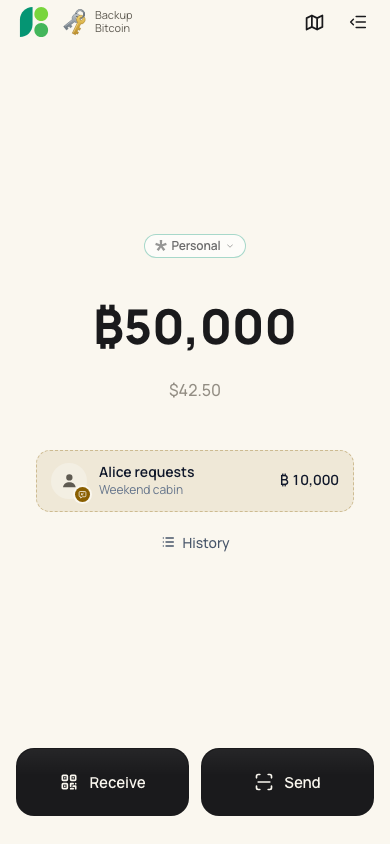
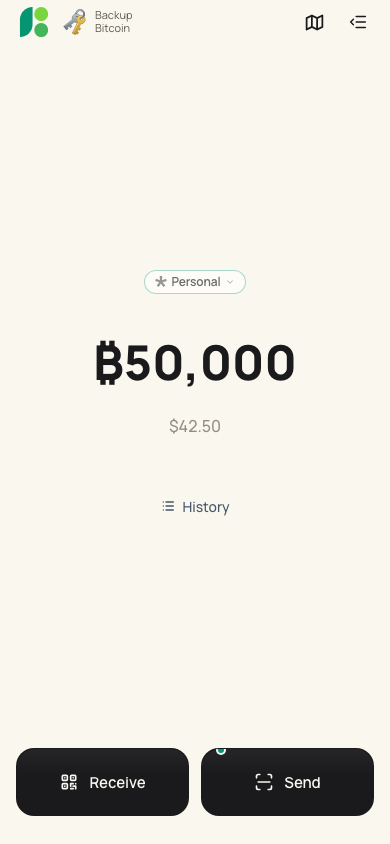
feat(requests): a quiet dot on Send instead of the Home card
The open-request card competed with the balance and the last payment.
Requests that wait are now announced the way BuhoGO announces updates:
a dot, no number, on Send (Receive already shows one for saved
vouchers), and Send lists the request first, in the style of its other
rows. One request opens its chat, several open Requests. The dot goes as
soon as nothing waits; Send's accessible name says a request is waiting.

diff --git a/src/pages/Wallet.vue b/src/pages/Wallet.vue
@@ -303,42 +303,6 @@
         more informative entry point than the old round icon button.
       -->
       <div class="last-tx-section">
-        <!-- Money a contact asked for: one card, same anatomy as the last
-             transaction, until it is paid, declined or expired. One request
-             opens its chat (where Pay is); several open the Requests page. -->
-        <button
-          v-if="toPayCard"
-          type="button"
-          class="last-tx-card to-pay-card"
-          :class="$q.dark.isActive ? 'last-tx-card-dark' : 'last-tx-card-light'"
-          :aria-label="`${toPayCard.title}. ${toPayCard.subtitle}`"
-          @click="openRequestsToPay"
-        >
-          <span class="last-tx-avatar-wrap">
-            <ContactAvatar
-              class="last-tx-avatar"
-              :entry="toPayCard.contact || {}"
-              :name="toPayCard.contact?.name || ''"
-            />
-            <span class="last-tx-type-badge tx-badge-request">
-              <Icon icon="buho:request" width="9" height="9" />
-            </span>
-          </span>
-          <span class="last-tx-info">
-            <span class="last-tx-title" :class="$q.dark.isActive ? 'last-tx-title-dark' : 'last-tx-title-light'">
-              {{ toPayCard.title }}
-            </span>
-            <span class="last-tx-time" :class="$q.dark.isActive ? 'last-tx-muted-dark' : 'last-tx-muted-light'">
-              {{ toPayCard.subtitle }}
-            </span>
-          </span>
-          <span class="last-tx-amount-wrap">
-            <span class="last-tx-amount" :class="$q.dark.isActive ? 'last-tx-title-dark' : 'last-tx-title-light'">
-              <HiddenAmount>{{ toPayCard.amount }}</HiddenAmount>
-            </span>
-          </span>
-        </button>
-
         <!-- Loading: skeleton -->
         <div
           v-if="isLoadingLastTransaction"
@@ -463,9 +427,12 @@
           @click="openSend"
           no-caps
           unelevated
-          :aria-label="$t('Send payment')"
+          :aria-label="requestsToPay.length ? $t('Send payment, a request is waiting') : $t('Send payment')"
         >
           <Icon icon="tabler:scan" width="20" height="20" />
+          <!-- Someone asked for money: a dot, no number, like the update dot
+               on the logo. Send lists the request at the top. -->
+          <span v-if="requestsToPay.length" class="action-dot" aria-hidden="true"></span>
           <span class="btn-text">{{ $t('Send') }}</span>
         </q-btn>
       </div>
@@ -851,9 +818,6 @@ import WalletSwitcherSheet from '../components/wallets/WalletSwitcherSheet.vue';
 import PaymentConfirmSheet from '../components/PaymentConfirmSheet.vue';
 import ContactAvatar from '../components/AddressBook/ContactAvatar.vue';
 import {useRequestsToPay} from '../composables/useRequests.js';
-import {contactChatRoute} from '../services/dm/routes.js';
-// The waiting-request colours, shared with the chat's request card.
-import '../components/chat/chatTokens.css';
 import BatchSendModal from '../components/BatchSendModal.vue';
 import BackupBanner from '../components/BackupBanner.vue';
 import BackupShortcut from '../components/BackupShortcut.vue';
@@ -1112,36 +1076,6 @@ export default {
       const ms = sparkHealth().unreachableFor(this.walletStore.activeWalletId);
       return ms ? exitDurationText(ms, (key, params) => this.$t(key, params)) : '';
     },
-    /** The home card for requests waiting for the user, or null when none wait. */
-    toPayCard() {
-      const requests = this.requestsToPay;
-      if (!requests.length) return null;
-      const contactOf = (pubkey) => this.addressBookStore.findContactByPubkey(pubkey);
-      const firstName = (pubkey) => String(contactOf(pubkey)?.name || '').trim().split(/\s+/)[0];
-      const amount = formatAmount(
-        requests.reduce((sum, request) => sum + request.request.amountSats, 0),
-        this.walletStore.useBip177Format,
-      );
-      const [first] = requests;
-      if (requests.length === 1) {
-        return {
-          contact: contactOf(first.partner),
-          title: this.$t('{name} requests', { name: firstName(first.partner) }),
-          subtitle: first.request.note || this.$t('Payment request'),
-          amount,
-        };
-      }
-      const names = [...new Set(requests.map((request) => firstName(request.partner)))];
-      return {
-        contact: contactOf(first.partner),
-        title: this.$t('{n} requests to pay', { n: requests.length }),
-        subtitle: names.length > 2
-          ? this.$t('{names} and {n} more', { names: names.slice(0, 2).join(', '), n: names.length - 2 })
-          : names.join(', '),
-        amount,
-      };
-    },
-
     menuButtonLabel() {
       if (!this.socialBucketStore.hasUnseenPayments) return this.$t('Menu');
       const count = this.socialBucketStore.paymentCount;
@@ -2426,11 +2360,6 @@ export default {
     }
   },
   methods: {
-    openRequestsToPay() {
-      const contact = this.toPayCard?.contact;
-      this.$router.push(this.requestsToPay.length === 1 && contact ? contactChatRoute(contact.id) : '/requests');
-    },
-
     openEmergencyExit() {
       this.$router.push(`/security/exit/${this.walletStore.activeWalletId}`);
     },
@@ -6853,11 +6782,6 @@ export default {
   border-color: var(--border-card);
 }
 
-/* A request waiting for the user: the chat's open-request colours. */
-.to-pay-card {
-  background: var(--color-warn-soft);
-  border: 1.5px dashed var(--chat-warn-line);
-}
 
 .last-tx-icon {
   flex: 0 0 auto;
@@ -6916,7 +6840,6 @@ export default {
 .tx-badge-pos { background: #3B82F6; }
 .tx-badge-aux { background: #64748B; }
 .tx-badge-zap { background: #662482; }
-.tx-badge-request { background: var(--color-warn); color: var(--bg-card); }
 
 /* Nostr ostrich head, sized up for the same reason as in the history
    list: it is filled art, not a stroked glyph. This disc is the

diff --git a/src/components/SendModal.vue b/src/components/SendModal.vue
@@ -190,6 +190,23 @@
 
       <!-- ─────────────  METHOD ROWS  ───────────── -->
       <div v-if="showMethods" class="method-block">
+        <!-- A contact asked for money: the first row, marked by a dot like
+             the update row. One request opens its chat (Pay is there);
+             several open Requests. Hidden once nothing waits. -->
+        <template v-if="waitingRequests">
+          <button type="button" class="method-row" data-audit="send-requests" @click="openWaitingRequests">
+            <span class="method-icon method-icon--request">
+              <Icon icon="buho:request" width="20" height="20" />
+              <span class="method-dot" aria-hidden="true"></span>
+            </span>
+            <span class="method-text">
+              <span class="method-title">{{ waitingRequests.title }}</span>
+              <span class="method-sub">{{ waitingRequests.subtitle }}</span>
+            </span>
+            <Icon icon="tabler:chevron-right" width="16" height="16" class="method-chev" />
+          </button>
+          <div class="method-divider"></div>
+        </template>
         <button type="button" class="method-row" data-audit="send-mobile-money" @click="enterMobileMoney">
           <span class="method-icon">
             <Icon icon="tabler:device-mobile" width="20" height="20" />
@@ -391,6 +408,9 @@ import {
 import { resolveNostrLightningTarget, NOSTR_TARGET_ERROR } from '../services/nostrPaymentTarget';
 import { usernameAddressFromInput } from '../services/nip05';
 import ContactAvatar from './AddressBook/ContactAvatar.vue';
+import { useRequestsToPay } from '../composables/useRequests.js';
+import { contactChatRoute } from '../services/dm/routes.js';
+import { formatAmount } from '../utils/amountFormatting.js';
 import ArkadeLogo from './ArkadeLogo.vue';
 import ProgressCta from './ProgressCta.vue';
 
@@ -421,7 +441,7 @@ export default {
   setup() {
     const addressBookStore = useAddressBookStore();
     const walletStore = useWalletStore();
-    return { addressBookStore, walletStore };
+    return { addressBookStore, walletStore, requestsToPay: useRequestsToPay() };
   },
   data() {
     return {
@@ -654,6 +674,32 @@ export default {
     // any typing hands their space to the contact filter or the preview card.
     showMethods() {
       return !this.mobileMoneyMode && !(this.manualInput || '').trim();
+    },
+
+    /**
+     * The row for requests that wait for the user, or null. One request:
+     * "Lena requests" and its amount and note. Several: how many, and who.
+     * Amounts stay out while the balance is hidden.
+     */
+    waitingRequests() {
+      const requests = this.requestsToPay;
+      if (!requests.length) return null;
+      const firstName = (pubkey) => String(this.addressBookStore.findContactByPubkey(pubkey)?.name || '').trim().split(/\s+/)[0];
+      const amountOf = (sats) => (this.walletStore.balanceHidden ? '' : formatAmount(sats, this.walletStore.useBip177Format));
+      if (requests.length === 1) {
+        const [{ partner, request }] = requests;
+        return {
+          title: this.$t('{name} requests', { name: firstName(partner) }),
+          subtitle: [amountOf(request.amountSats), request.note || this.$t('Payment request')].filter(Boolean).join(' · '),
+        };
+      }
+      const names = [...new Set(requests.map((message) => firstName(message.partner)))];
+      return {
+        title: this.$t('{n} requests to pay', { n: requests.length }),
+        subtitle: names.length > 2
+          ? this.$t('{names} and {n} more', { names: names.slice(0, 2).join(', '), n: names.length - 2 })
+          : names.join(', '),
+      };
     },
 
     showContactsSection() {
@@ -1145,6 +1191,13 @@ export default {
     goToAddressBook() {
       this.show = false;
       this.$router.push('/address-book');
+    },
+
+    openWaitingRequests() {
+      const [first, ...rest] = this.requestsToPay;
+      const contact = first && this.addressBookStore.findContactByPubkey(first.partner);
+      this.show = false;
+      this.$router.push(contact && !rest.length ? contactChatRoute(contact.id) : '/requests');
     },
 
     onContactPicked(contact) {
@@ -1865,6 +1918,24 @@ export default {
   gap: 1px;
   min-width: 0;
   flex: 1;
+}
+
+.method-icon--request {
+  position: relative;
+  color: var(--brand-accent-text);
+}
+
+/* The update dot's anatomy: brand colour, a ring in the surface colour. */
+.method-dot {
+  position: absolute;
+  top: -3px;
+  right: -3px;
+  width: 11px;
+  height: 11px;
+  border: 2px solid var(--bg-card);
+  border-radius: 50%;
+  background: var(--brand-accent);
+  box-sizing: border-box;
 }
 
 .method-title {

diff --git a/src/i18n/de/requests.js b/src/i18n/de/requests.js
@@ -52,6 +52,7 @@ export default {
   'To pay': 'Zu bezahlen',
   'Your requests': 'Deine Anfragen',
   '{n} requests to pay': '{n} offene Anfragen an dich',
+  'Send payment, a request is waiting': 'Zahlung senden, eine Anfrage wartet',
   'No requests yet': 'Noch keine Anfragen',
   'Ask one person or a few. See their payments here.':
     'Frage eine oder mehrere Personen. Ihre Zahlungen siehst du hier.',

diff --git a/src/i18n/es/requests.js b/src/i18n/es/requests.js
@@ -54,6 +54,7 @@ export default {
   'To pay': 'Por pagar',
   'Your requests': 'Tus solicitudes',
   '{n} requests to pay': '{n} solicitudes por pagar',
+  'Send payment, a request is waiting': 'Enviar pago, hay una solicitud pendiente',
   'No requests yet': 'Todavía no hay solicitudes',
   'Ask one person or a few. See their payments here.':
     'Pide a una o varias personas. Ve sus pagos aquí.',

diff --git a/src/i18n/en-US/requests.js b/src/i18n/en-US/requests.js
@@ -53,6 +53,7 @@ export default {
   'To pay': 'To pay',
   'Your requests': 'Your requests',
   '{n} requests to pay': '{n} requests to pay',
+  'Send payment, a request is waiting': 'Send payment, a request is waiting',
   'No requests yet': 'No requests yet',
   'Ask one person or a few. See their payments here.':
     'Ask one person or a few. See their payments here.',

diff --git a/docs/SHARED_REQUESTS.md b/docs/SHARED_REQUESTS.md
@@ -45,15 +45,16 @@ A request waits for the user while a saved contact's request is not paid,
 declined, cancelled or expired (`requestsToPay`). Strangers and blocked
 senders never count; their requests stay in Messages, as their messages do.
 Following Apple's guidance on [badges](https://developer.apple.com/design/human-interface-guidelines/notifications#Badges)
-and [lists](https://developer.apple.com/design/human-interface-guidelines/lists-and-tables),
-the signal only appears while there is something to act on and leads
-straight to it:
+("discoverable but not distracting or invasive") and the way BuhoGO
+announces updates, the signal is quiet, only appears while there is
+something to act on, and leads straight to it:
 
-- Home: one card above the last transaction, in the chat's open-request
-  colours. One request reads "Anna requests" and opens that chat, where Pay
-  is; several read "3 requests to pay" and open the Requests page. Muted
-  chats stay quiet, amounts follow Hide balance, and the card disappears as
-  soon as nothing waits.
+- Home: a dot on Send, as quiet as the update dot on the logo (a status,
+  not a count; Send's accessible name says a request is waiting). Send
+  lists the request first: "Anna requests" with the amount and the note.
+  One request opens its chat, where Pay is; several ("3 requests to pay")
+  open the Requests page. Muted chats stay quiet, amounts follow Hide
+  balance, and the dot goes as soon as nothing waits.
 - Receive → Requests: "To pay" first, then everything the user asked for:
   goals and requests sent from inside a chat. One person opens the chat,
   several open their progress.
@@ -136,9 +137,13 @@ Screenshots from the native browser review (test identities and amounts):
 | --- | --- |
 | ![Verified progress](images/shared-requests/progress.png) | ![Repayment](images/shared-requests/repayment.png) |
 
-| One person | A request waits on the home |
+| One person | A request waits: a dot on Send |
 | --- | --- |
 | ![One person](images/shared-requests/one-person.png) | ![A request waits](images/shared-requests/home-request.png) |
+
+| Send lists it first |
+| --- |
+| ![Send lists the request](images/shared-requests/send-request.png) |
 
 | Requests, including ones sent from a chat |
 | --- |
